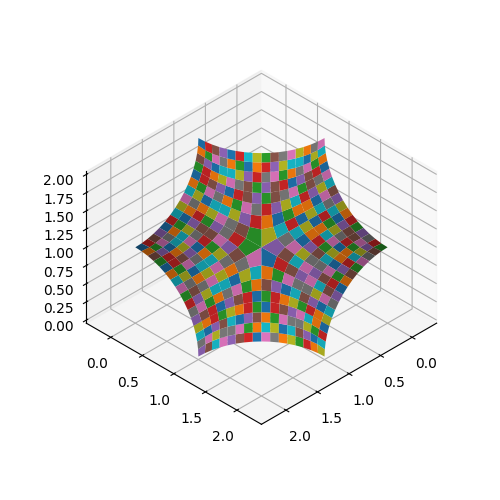
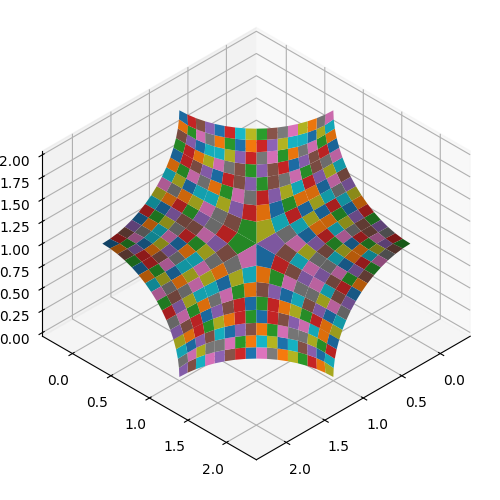
Add

diff --git a/src/subdivision_hole_filler/hole_filler.py b/src/subdivision_hole_filler/hole_filler.py
@@ -69,8 +69,9 @@ class NsidedHoleFiller:
         plt.axis('equal')
         ax.set_proj_type('ortho')
         ax.view_init(elev=np.arctan(np.sqrt(0.5))/np.pi*180, azim=45)
-        # ax.view_init(elev=0, azim=0)
+        ax.view_init(elev=0, azim=0)
         if output_path is not None:
+            plt.tight_layout()
             plt.savefig(output_path)
         else:
             plt.show()

diff --git a/README.md b/README.md
@@ -85,5 +85,5 @@ for iteration in range(3):
 
 Here is the ouput.
 
-![avatar](side.png)
-![avatar](iso.png)
+<img src=https://github.com/huang-lihao/subdivision-hole-filler/blob/main/iso.png width=45% />
+<img src=https://github.com/huang-lihao/subdivision-hole-filler/blob/main/side.png width=45% />
